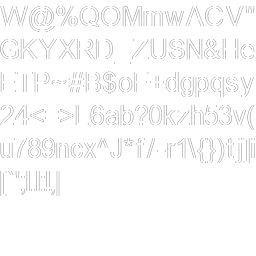
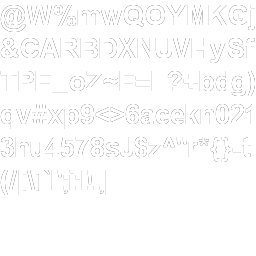
Changed the default font. Change TextScaling to only scale the size of the rendered text and not the base position. Move the distance counter to the center of the screen and remove the "Distance: " part

diff --git a/Tortuga/Tortuga/Graphics/Text/TextRenderer.cs b/Tortuga/Tortuga/Graphics/Text/TextRenderer.cs
@@ -63,22 +63,23 @@ namespace Tortuga.Graphics.Text
 
             char previousCharacter = ' ';
             var size = Font.MeasureFont(text);
+            var scaled = new Vector2(size.Width * scale.X, size.Height * scale.Y);
             if(TextAlignemntContains(textAlignment, TextAlignment.MIDDLE))
             {
-                position -= new Vector2(size.Width / 2f, 0);
+                position -= new Vector2(scaled.X / 2f, 0);
             }
             else if(TextAlignemntContains(textAlignment, TextAlignment.RIGHT))
             {
-                position -= new Vector2(size.Width, 0);
+                position -= new Vector2(scaled.X, 0);
             }
 
             if (TextAlignemntContains(textAlignment, TextAlignment.CENTER))
             {
-                position -= new Vector2(0, size.Height / 2f);
+                position -= new Vector2(0, scaled.Y / 2f);
             }
             else if (TextAlignemntContains(textAlignment, TextAlignment.TOP))
             {
-                position -= new Vector2(0, size.Height);
+                position -= new Vector2(0, scaled.Y);
             }
 
             foreach (char character in text)
@@ -86,7 +87,7 @@ namespace Tortuga.Graphics.Text
                 switch (character)
                 {
                     case '\n':
-                        position += new Vector2(0, Font.LineHeight);
+                        position += new Vector2(0, Font.LineHeight * scale.Y);
                         break;
                     case '\r':
                         break;
@@ -97,9 +98,9 @@ namespace Tortuga.Graphics.Text
                         data = Font[character];
                         kerning = Font.GetKerning(previousCharacter, character);
 
-                        DrawCharacter(data, position.X + data.Offset.X + kerning, position.Y + data.Offset.Y, scale, color);
+                        DrawCharacter(data, position.X + (data.Offset.X + kerning) * scale.X, position.Y + data.Offset.Y * scale.Y, scale, color);
 
-                        position += new Vector2(data.XAdvance + kerning, 0);
+                        position += (new Vector2(data.XAdvance + kerning, 0)) * scale.Y;
                         break;
                 }
 
@@ -113,7 +114,7 @@ namespace Tortuga.Graphics.Text
             _device.Add(
                 surface,
                 character.Bounds,
-                new RectangleF(x * scale.X, y * scale.Y, character.Bounds.Width * scale.X, character.Bounds.Height * scale.Y),
+                new RectangleF(x, y, character.Bounds.Width * scale.X, character.Bounds.Height * scale.Y),
                 color);
         }
     }

diff --git a/Tortuga/FlyingTortuga.Game/GameScreen/GameScreen.cs b/Tortuga/FlyingTortuga.Game/GameScreen/GameScreen.cs
@@ -131,7 +131,7 @@ namespace FlyingTortuga.Game.GameScreen
             }
             else
             {
-                _textRenderer.DrawText($"Distance: {(int)Player.Position.X / 16}", new Vector2(-(SCREEN_WIDTH / 2) + 10, (SCREEN_HEIGHT / 2) - 10), textAlignment: TextAlignment.TOP_LEFT);
+                _textRenderer.DrawText($"{(int)Player.Position.X / 16}", new Vector2(0, SCREEN_HEIGHT * 0.25f), new Vector2(2, 2), textAlignment: TextAlignment.CENTER_MIDDLE);
             }
 
             _drawDevice.End();
